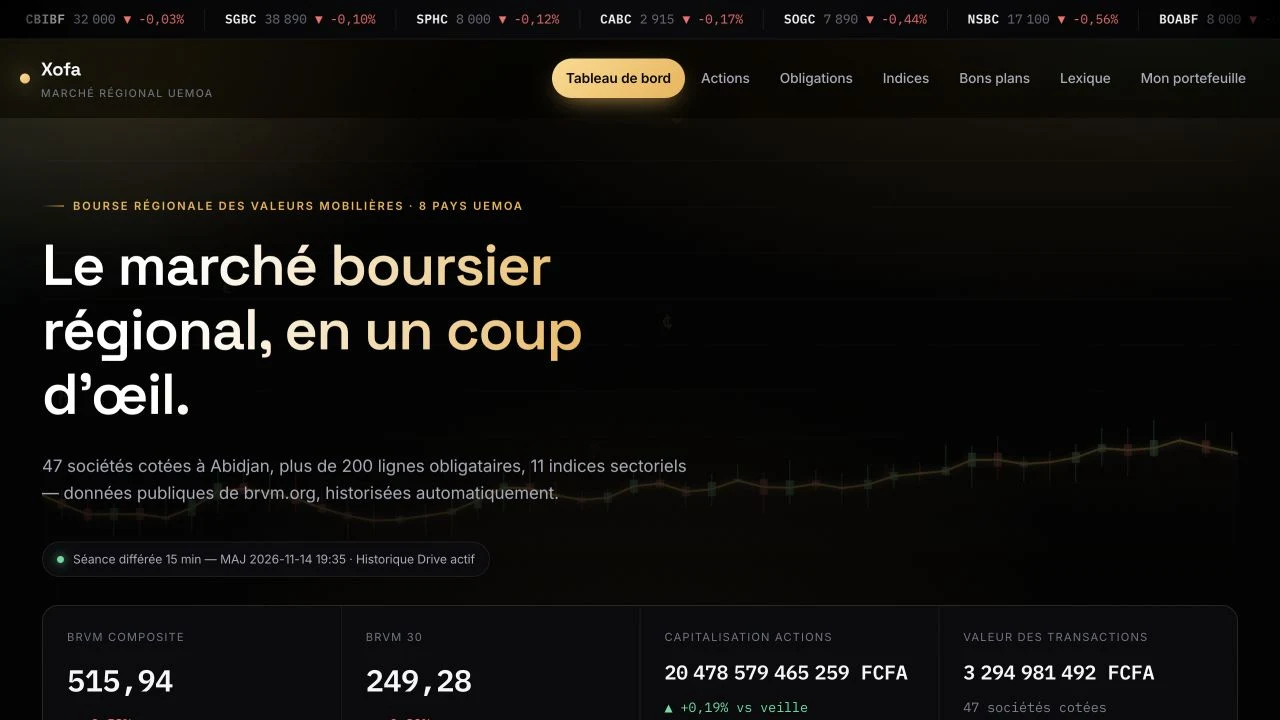
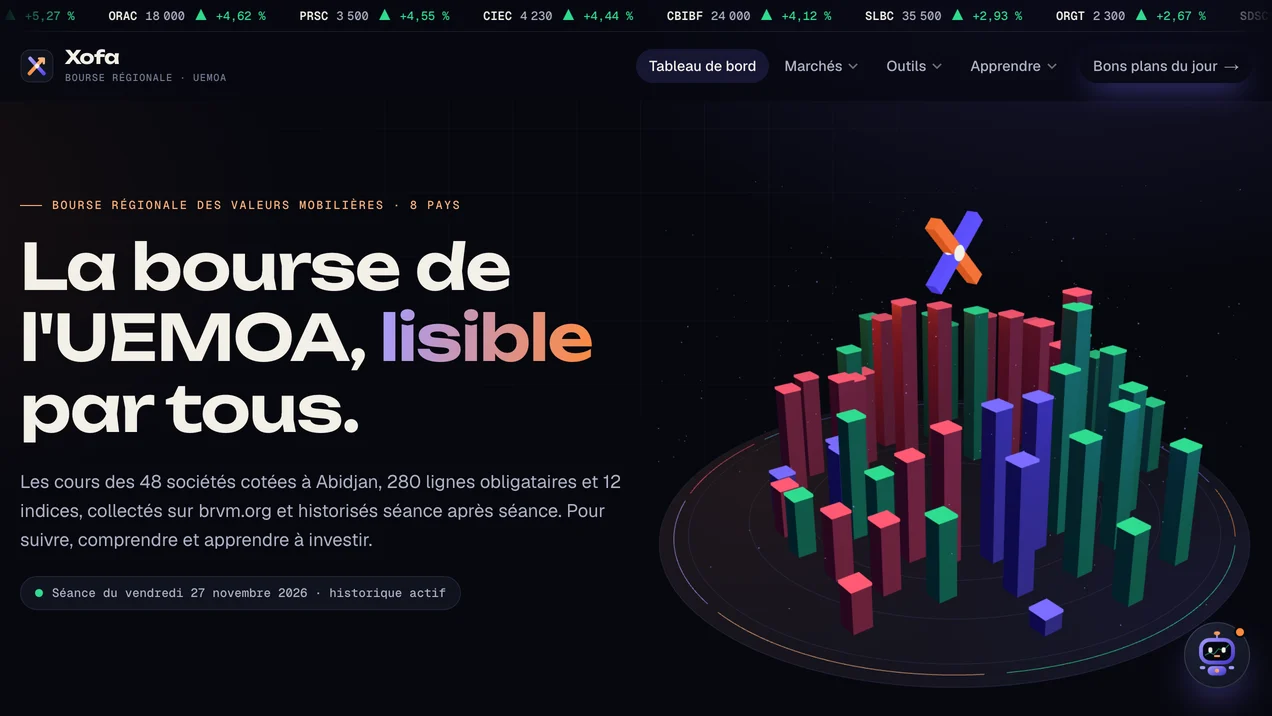
Xofa : nouvelles captures et description de la v2

diff --git a/src/data/content.ts b/src/data/content.ts
@@ -423,8 +423,8 @@ export const projects: Project[] = [
     title: "XOFA · BRVM Analytics",
     category: "Données financières",
     description:
-      "Analyse des cours, volumes et indices des sociétés cotées à la Bourse Régionale des Valeurs Mobilières, sur huit pays de l'UEMOA. XOFA rassemble les données publiques du marché dans un tableau de bord accessible sur ordinateur et mobile.",
-    tags: ["Django", "Redis", "REST API", "Fintech"],
+      "La bourse de l'UEMOA, lisible par tous : cours, indices et obligations de la BRVM historisés chaque jour, cote en 3D, carte thermique, comparateur, bons plans calculés, simulateur, fiches des 48 sociétés cotées, annuaire des SGI et SGO, guide du débutant, lexique et Kauri, un assistant qui répond avec les vraies données du marché.",
+    tags: ["Next.js", "Three.js", "Data viz", "Fintech"],
     link: "https://xofa.myoctogone.com/",
     image: "/images/xofa-web.webp",
     mobileImage: "/images/xofa-mobile.webp",
